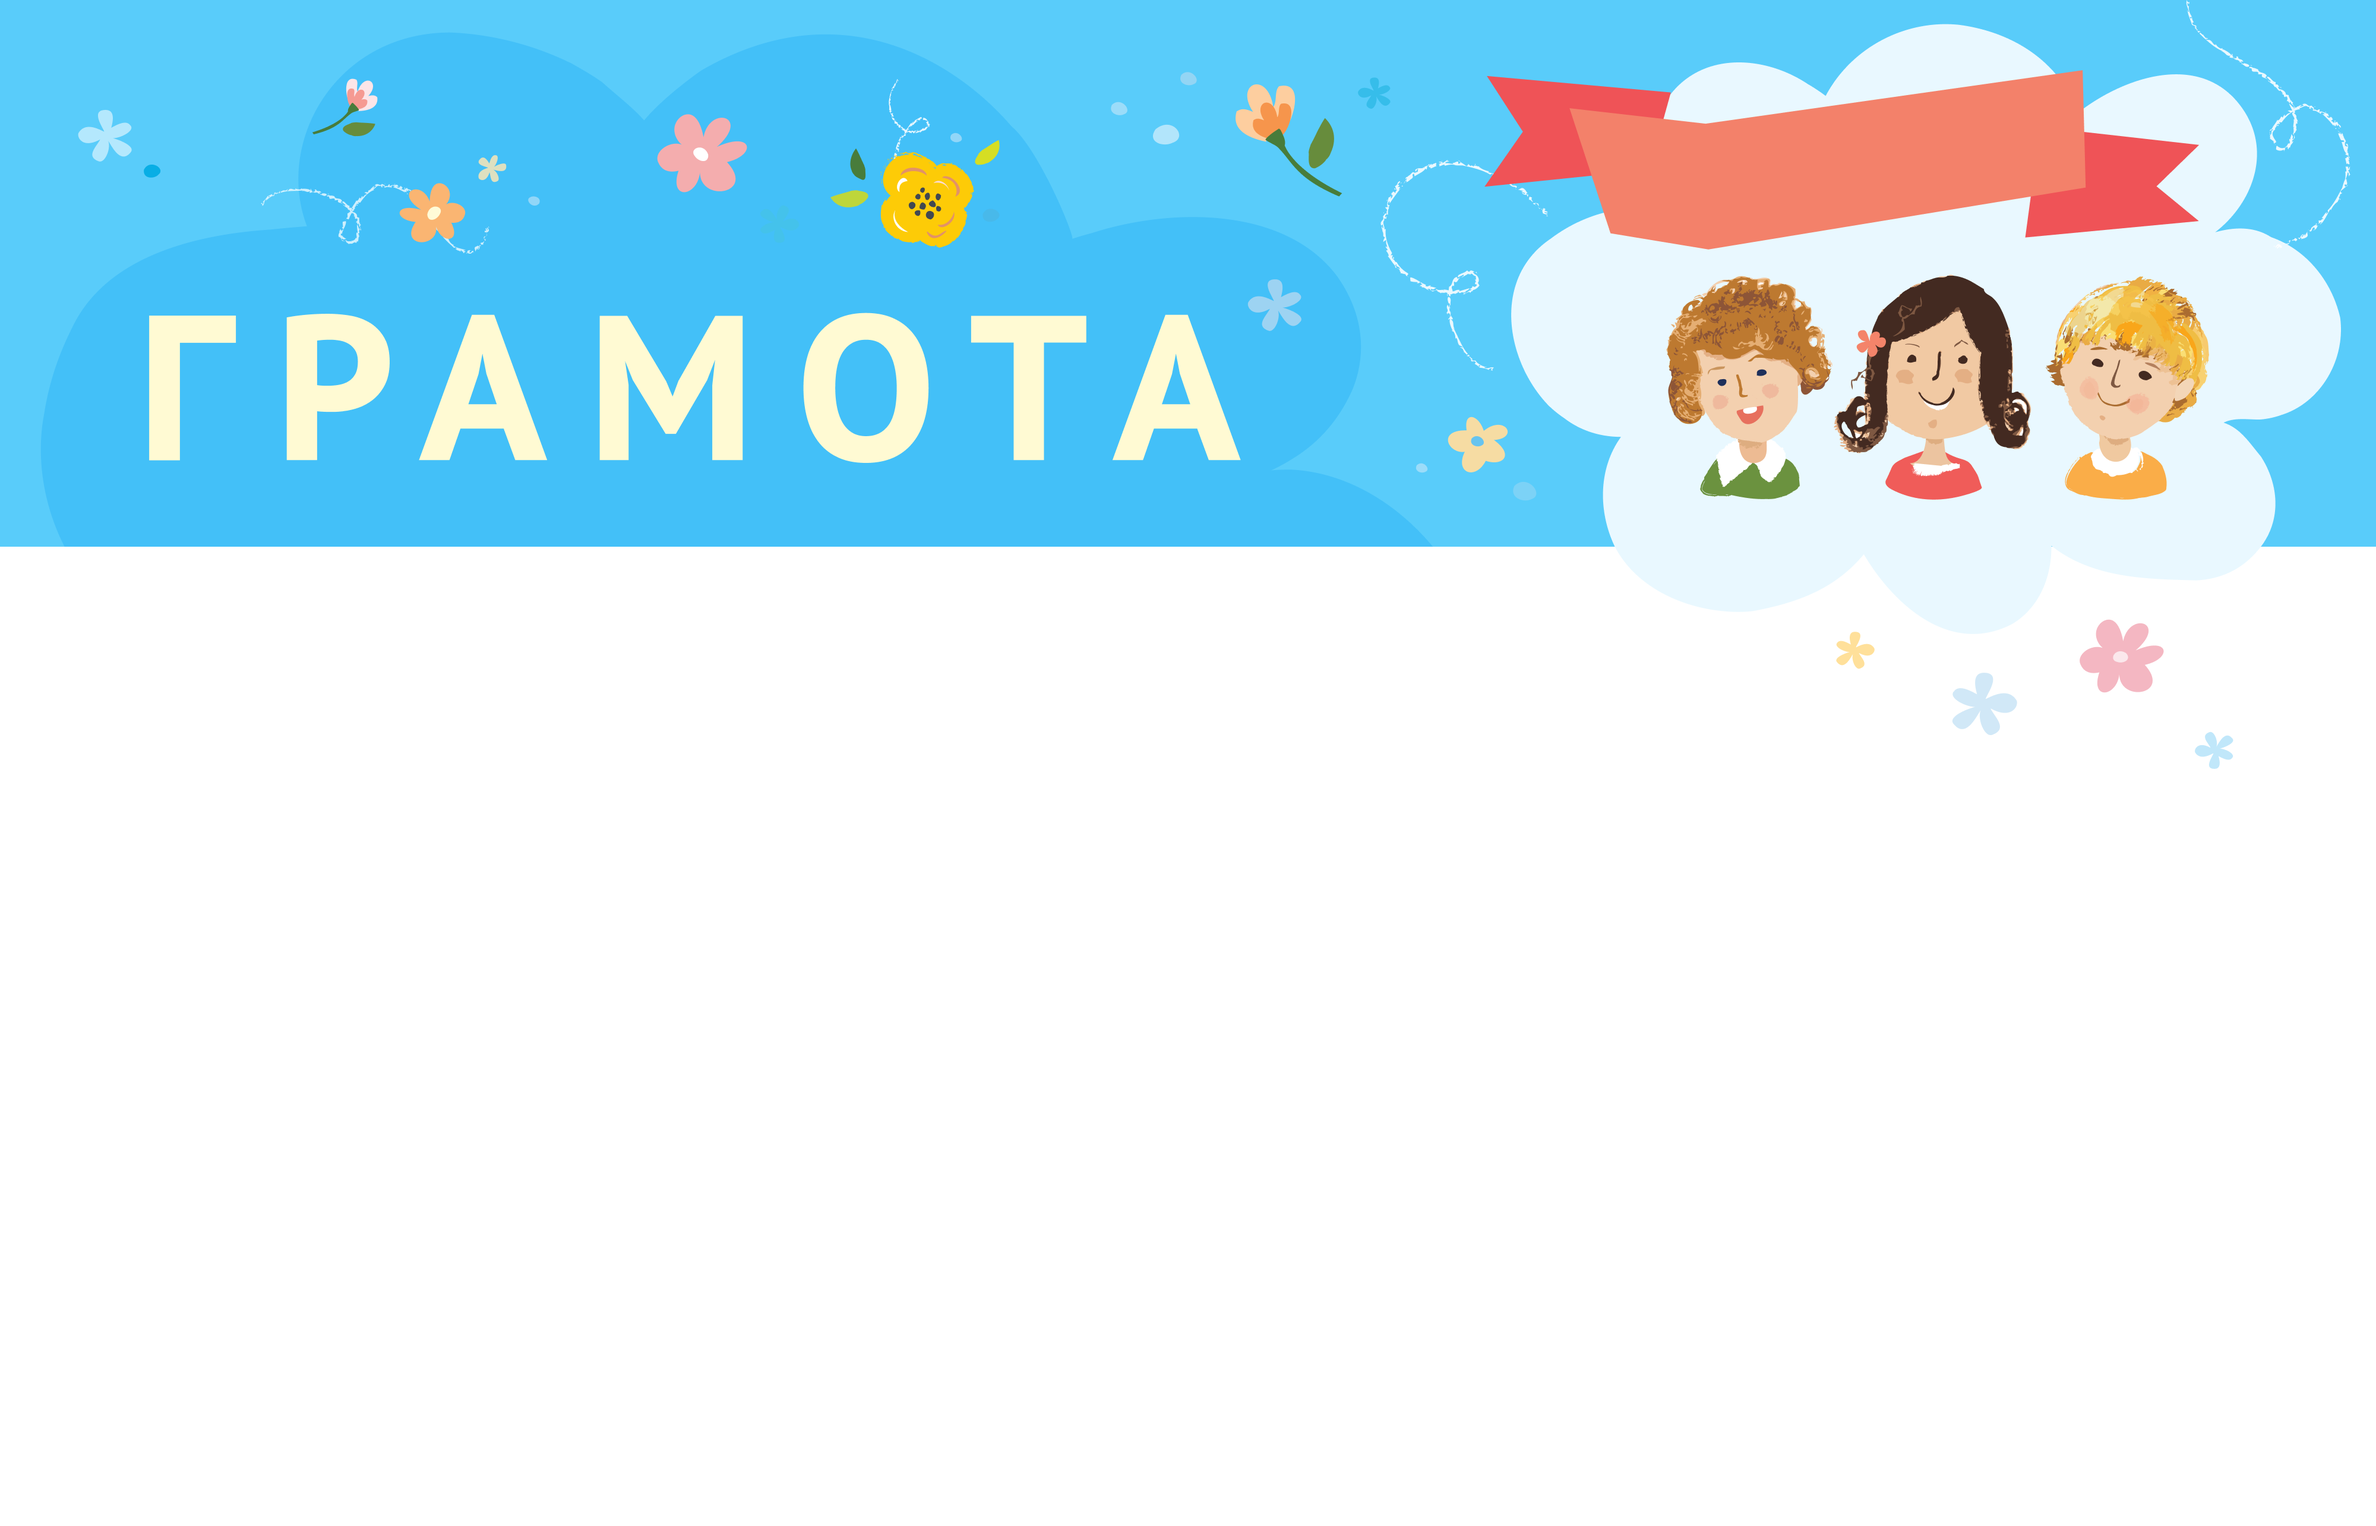
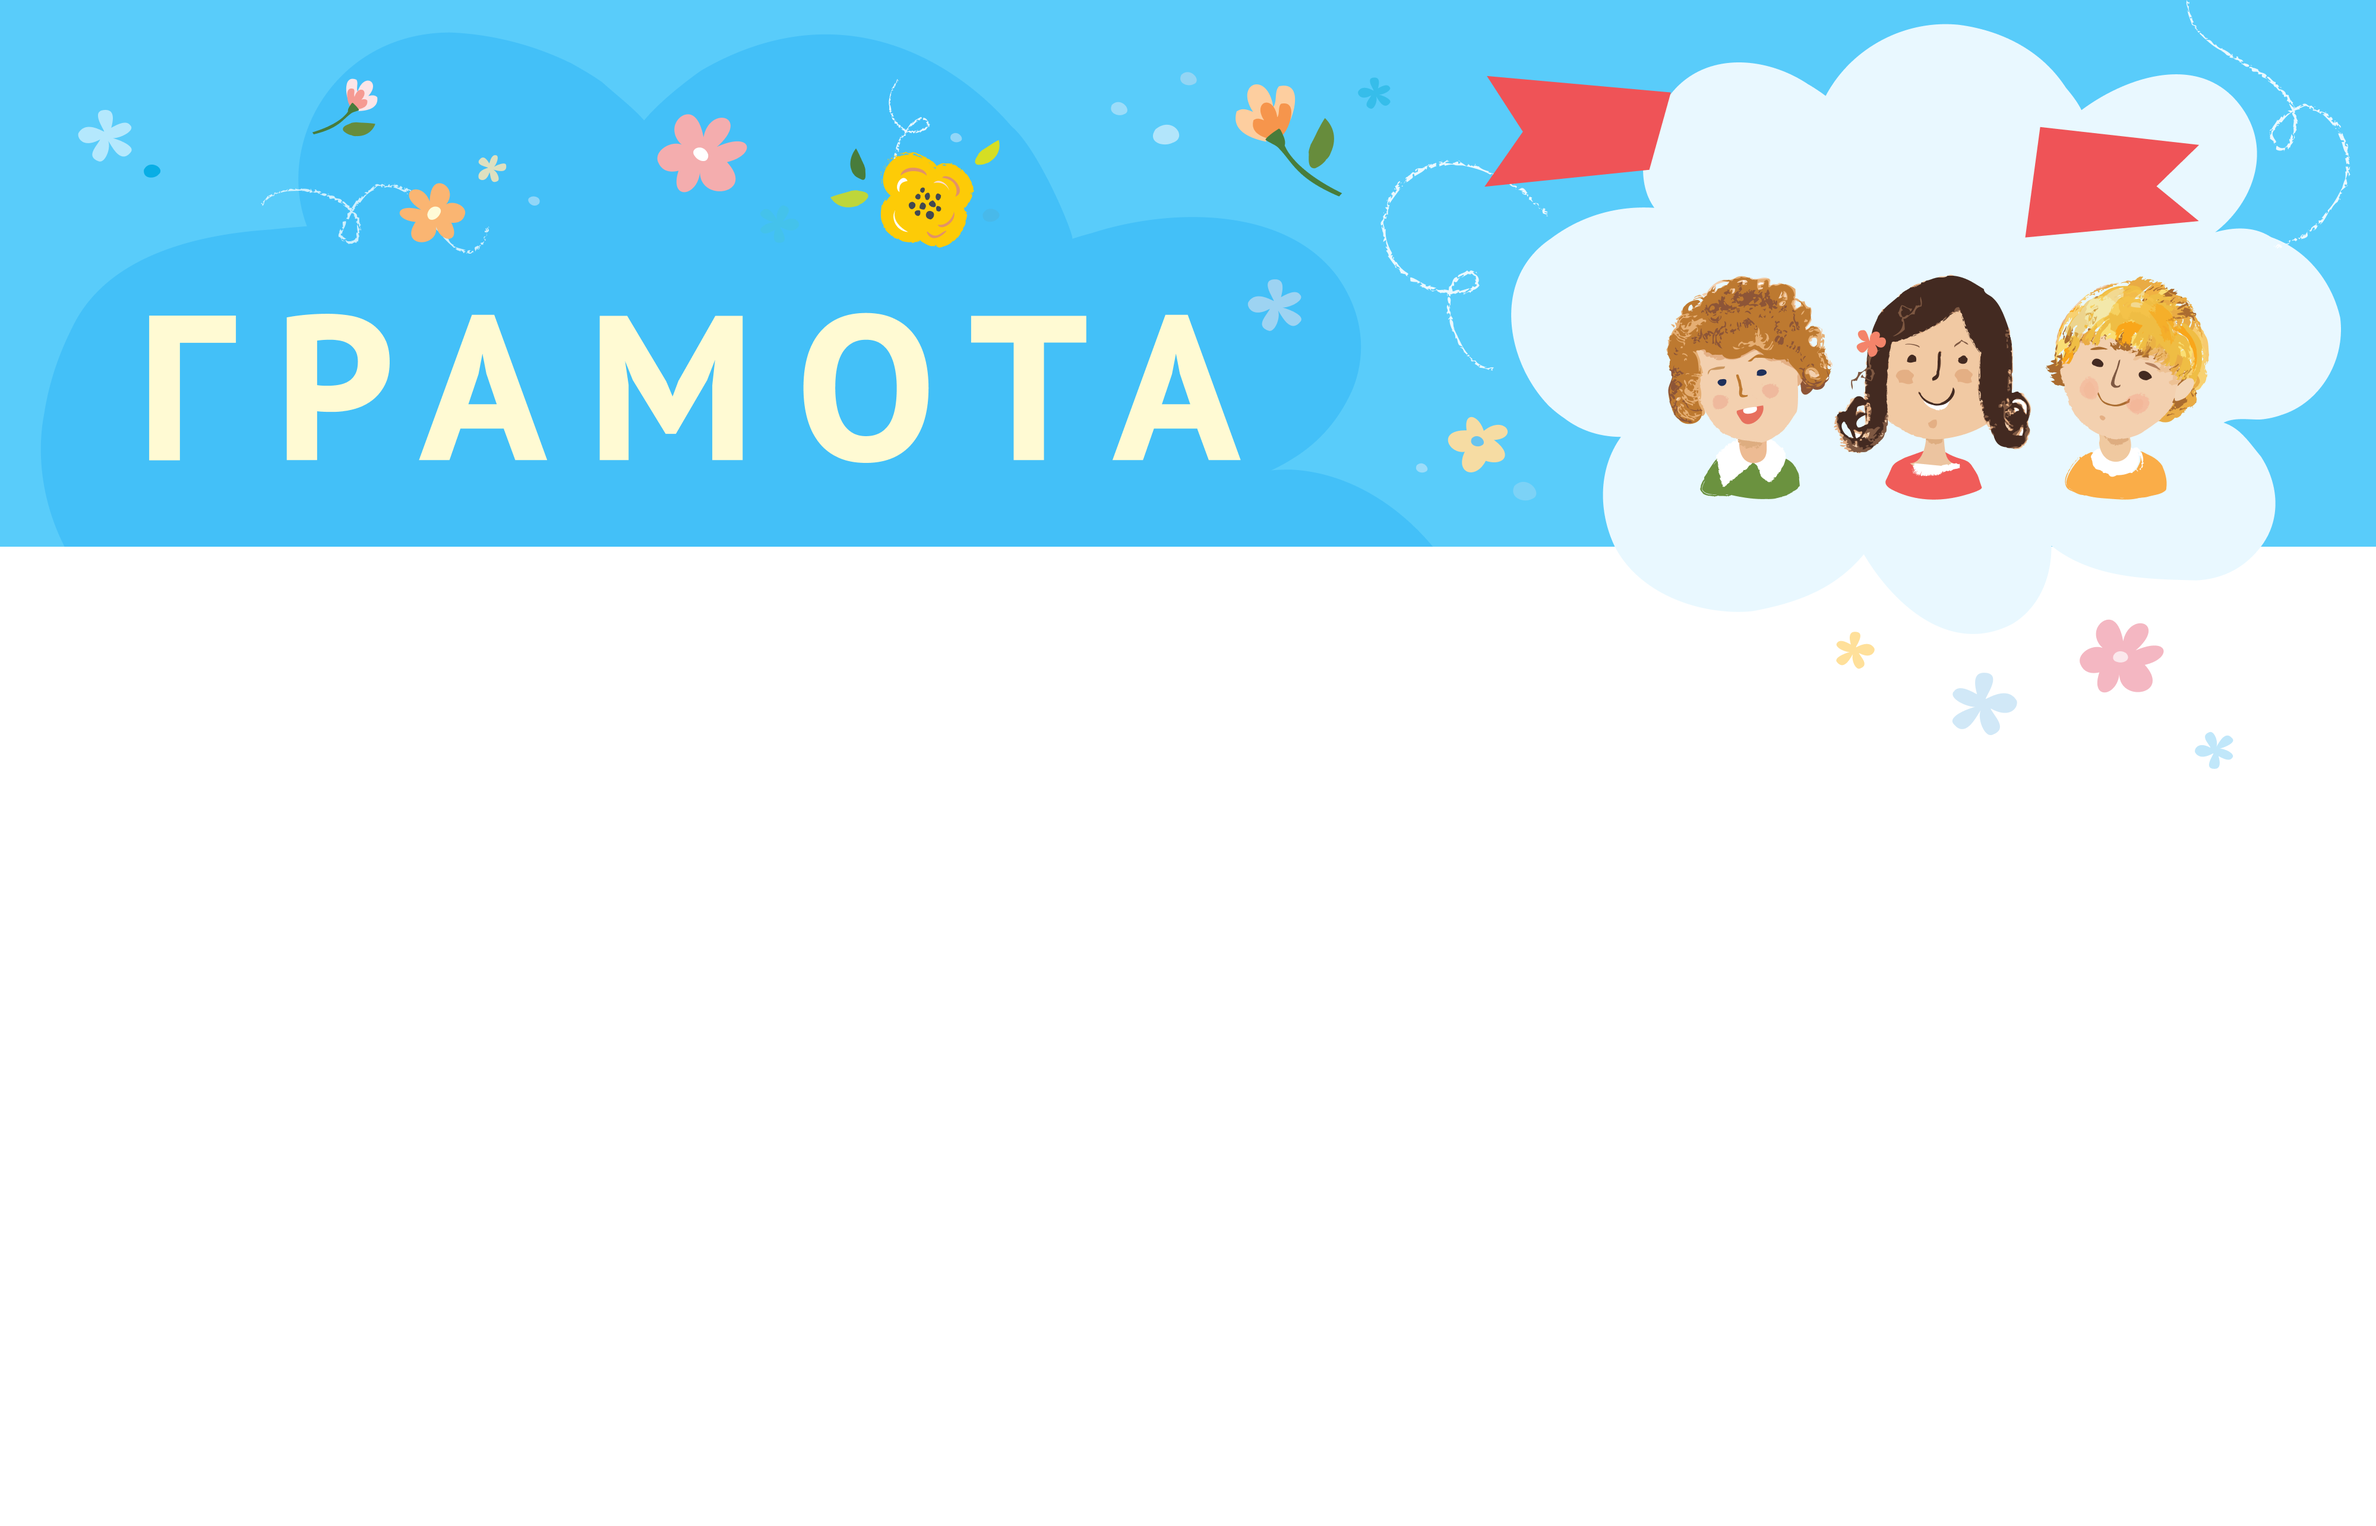
klass-pdf edit layout

Changed region(s): [[0.6562, 0.0312, 0.875, 0.1869]]

diff --git a/client/src/pages/KlassPdf.jsx b/client/src/pages/KlassPdf.jsx
@@ -1,12 +1,13 @@
 import React, { useEffect, useState } from "react";
 import queryString from "query-string";
+import frame from "../img/pdfGramota/pomogaemFrame.png"
 
 const styles = {
     pdfGramotaContainer: {
         fontFamily: "PT Sans",
         color: "#231F20",
         maxHeight: "210mm",
-        
+
     },
 
     pdfGramotaBluebg: {
@@ -15,28 +16,14 @@ const styles = {
         marginRight: "10mm",
     },
 
-    pdfGramotaPomogaem: {
-        fontFamily: "Pribambas",
-        fontSize: "34px",
-        color: "#F9FDFF",
-        transform: "rotate(-9.07deg)",
-        paddingLeft: "820px",
-        maxWidth: "fit-content",
-        marginTop: "-40px",
-        position: "fixed",
-    },
-
     pdfGramotaText: {
-        fontFamily: "PT Sans",
-        fontSize: "14px",
         color: "#231F20",
         display: "flex",
         flexDirection: "column",
-        alignItems: "flex-start",
     },
 
     pdfGramotaPrehead: {
-        fontSize: "24px",
+        fontSize: "1.5rem",
         color: "#231F20",
         marginTop: "155px",
     },
@@ -137,6 +124,31 @@ const styles = {
         paddingLeft: "200px",
         paddingBottom: "32px",
     },
+
+    pomogaemFrame: {
+        position: "relative",
+        left: "780px",
+        top: "-110px",
+        width: "252px",
+    },
+
+    pomogaemBack: {
+        width: "250px",
+        // position: "relative",
+    },
+
+    pdfGramotaPomogaem: {
+        fontFamily: "Pribambas",
+        fontSize: "2.3rem",
+        color: "#F9FDFF",
+        transform: "rotate(-9.07deg)",
+        maxWidth: "fit-content",
+        position: "absolute",
+        top: "14px",
+        left: "0",
+        right: "0",
+        margin: "auto"
+    },
 };
 
 const KlassPdf = (props) => {
@@ -170,17 +182,21 @@ const KlassPdf = (props) => {
     return (
         <div className="super-main" style={styles.pdfGramotaContainer}>
             <img
-                src="https://i.postimg.cc/DzTx4TXZ/headerblue.png"
+                src="https://i.postimg.cc/90K6GKNb/headerblue.png"
                 style={styles.pdfTeacherHeaderImg}
                 alt=""
-            ></img>
+            />
 
             <div style={styles.pdfGramotaBluebg}>
-                <div style={styles.pdfGramotaPomogaem}>
-                    {queryState.years > 0
-                        ? `Помогаем ${queryState.years} ${ageWord}!`
-                        : "1 сентября"}
+                <div style={styles.pomogaemFrame}>
+                    <img src="https://i.postimg.cc/kX8JTvFG/pomogaem-Frame.png" style={styles.pomogaemBack} alt="" />
+                    <div style={styles.pdfGramotaPomogaem}>
+                        {queryState.years > 0
+                            ? `Помогаем ${queryState.years} ${ageWord}!`
+                            : "1 сентября"}
+                    </div>
                 </div>
+
                 <div style={styles.pdfGramotaText}>
                     <div style={styles.pdfGramotaPrehead}>
                         Участникам благотворительной акции

diff --git a/client/src/index.css b/client/src/index.css
@@ -1,13 +1,40 @@
-body {
-  margin: 0;
-  font-family: -apple-system, BlinkMacSystemFont, 'Segoe UI', 'Roboto', 'Oxygen',
-    'Ubuntu', 'Cantarell', 'Fira Sans', 'Droid Sans', 'Helvetica Neue',
-    sans-serif;
-  -webkit-font-smoothing: antialiased;
-  -moz-osx-font-smoothing: grayscale;
+@font-face {
+    font-family: 'Pribambas';
+    src: local('Pribambas'), url('./fonts/Pribambas-Regular.ttf') format('truetype');
+    font-display: swap;
+    font-weight: 400;
 }
 
-code {
-  font-family: source-code-pro, Menlo, Monaco, Consolas, 'Courier New',
-    monospace;
+@font-face {
+    font-family: 'Pribambas';
+    src: local('Pribambas'), url('./fonts/Pribambas-Regular.ttf') format('truetype');
+    font-display: swap;
+    font-weight: 700;
 }
+
+@font-face {
+    font-family: 'PT Sans';
+    src: local('PT Sans'), url('./fonts/PTSans-Regular.ttf') format('truetype');
+    font-display: swap;
+    font-weight: 400;
+}
+
+
+html {
+    box-sizing: border-box;
+}
+
+
+body {
+    margin: 0 auto;
+    
+}
+
+.container {
+    max-width: 1952px;
+    margin: 0 auto;
+    align-self: center;
+    min-width: 410px;
+    padding: 0;
+}
+

diff --git a/client/src/pages/Home.js b/client/src/pages/Home.js
@@ -17,11 +17,11 @@ const Home = () => {
         backgroundColor: "#58CAFF",
         fontStyle: "italic",
       }}>
-      <a href="https://dvc-2022.herokuapp.com/spasibo-uchitel">Spasibo Uchitel</a>
-        <a href="https://dvc-2022.herokuapp.com/spasibo-klass">Spasibo Klass</a>
+      {/* <a href="https://dvc-2022.herokuapp.com/spasibo-uchitel">Spasibo Uchitel</a>
+        <a href="https://dvc-2022.herokuapp.com/spasibo-klass">Spasibo Klass</a> */}
 
-      {/* <a href="http://localhost:3000/spasibo-uchitel" style={{color: "tomato"}}>Спасибо учитель</a>
-      <a href="http://localhost:3000/spasibo-klass" style={{color: "white"}}>Спасибо класс</a> */}
+      <a href="http://localhost:3000/spasibo-uchitel" style={{color: "tomato"}}>Спасибо учитель</a>
+      <a href="http://localhost:3000/spasibo-klass" style={{color: "white"}}>Спасибо класс</a>
 
       {/* <BtnLinkHead /> */}
     </div>
@@ -29,4 +29,3 @@ const Home = () => {
 }
 
 export default Home;
-

diff --git a/client/src/App.js b/client/src/App.js
@@ -1,10 +1,10 @@
-import './App.css';
+import './index.css';
 import { BrowserRouter, Route, Switch } from 'react-router-dom';
-import Home from './Home';
-import TeacherPdf from './components/TeacherPdf';
-import GramotaMain from './components/GramotaMain';
-import KlassPdf from './components/KlassPdf';
-import TeacherThankMain from './components/TeacherThankMain';
+import Home from './pages/Home';
+import TeacherPdf from './pages/TeacherPdf';
+import GramotaMain from './pages/GramotaMain';
+import KlassPdf from './pages/KlassPdf';
+import TeacherThankMain from './pages/TeacherThankMain';
 
 
 
@@ -18,7 +18,6 @@ function App() {
             <Route path="/spasibo-uchitel" exact component={TeacherThankMain} />
             <Route path="/teacher-pdf" exact component={TeacherPdf} />
             <Route path="/klass-pdf" exact component={KlassPdf}/>
-          
           </Switch> 
       </BrowserRouter>
     </div>

diff --git a/client/src/pages/TeacherThankMain.jsx b/client/src/pages/TeacherThankMain.jsx
@@ -1,9 +1,9 @@
 import React from 'react'
-import FirstScreen from './firstScreen';
-import SecondScreen from './secondScreen';
-import ThirdScreen from './thirdScreen';
-import '../App.css'
-import Footer from './footer';
+import FirstScreen from '../components/firstScreen';
+import SecondScreen from '../components/secondScreen';
+import ThirdScreen from '../components/thirdScreen';
+import '../index.css'
+import Footer from '../components/footer';
 
 const TeacherThankMain = () => {
     return (

diff --git a/client/src/pages/GramotaMain.jsx b/client/src/pages/GramotaMain.jsx
@@ -1,10 +1,10 @@
 import React from 'react'
-import FirstScreen from './firstScreen'
-import SecondScreen from './secondScreen'
-import ThirdScreen from './thirdScreen';
+import FirstScreen from '../components/firstScreen'
+import SecondScreen from '../components/secondScreen'
+import ThirdScreen from '../components/thirdScreen';
 
-import '../App.css'
-import Footer from './footer';
+import '../index.css'
+import Footer from '../components/footer';
 
 
 const GramotaMain = () => {

diff --git a/client/src/components/firstScreen/index.jsx b/client/src/components/firstScreen/index.jsx
@@ -2,7 +2,7 @@ import React from 'react'
 import Header from '../header';
 import style from './firstScreen.module.css';
 import boyGirlM from '../../img/boyGirlM.png';
-import BtnLinkHead from '../btnLinkHead/index.jsx';
+import BtnLinkHead from '../btnLinkHead';
 
 const FirstScreen = () => {
 

diff --git a/client/src/components/secondScreen/secondScreen.module.css b/client/src/components/secondScreen/secondScreen.module.css
@@ -173,7 +173,6 @@ fieldset {
     .formContainer {
         width: auto;
         height: auto;
-        background-image: url('');
         text-align: center;
     }
 

diff --git a/client/src/index.js b/client/src/index.js
@@ -1,6 +1,5 @@
 import React from 'react';
 import ReactDOM from 'react-dom';
-import './index.css';
 import App from './App';
 
 ReactDOM.render(
